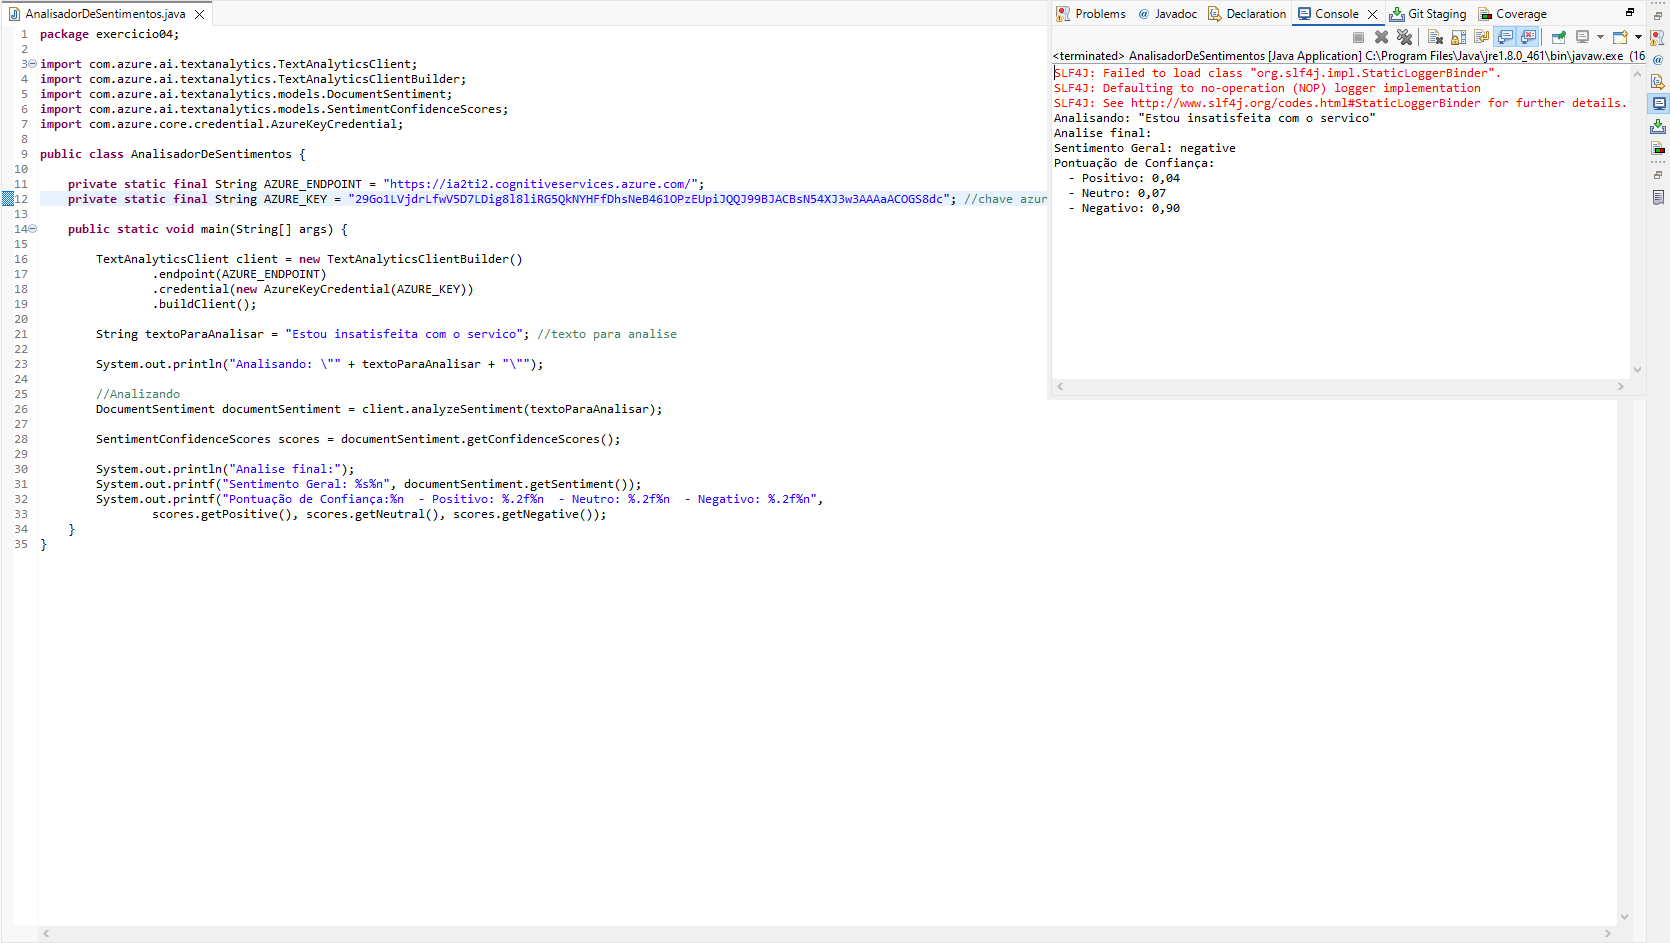
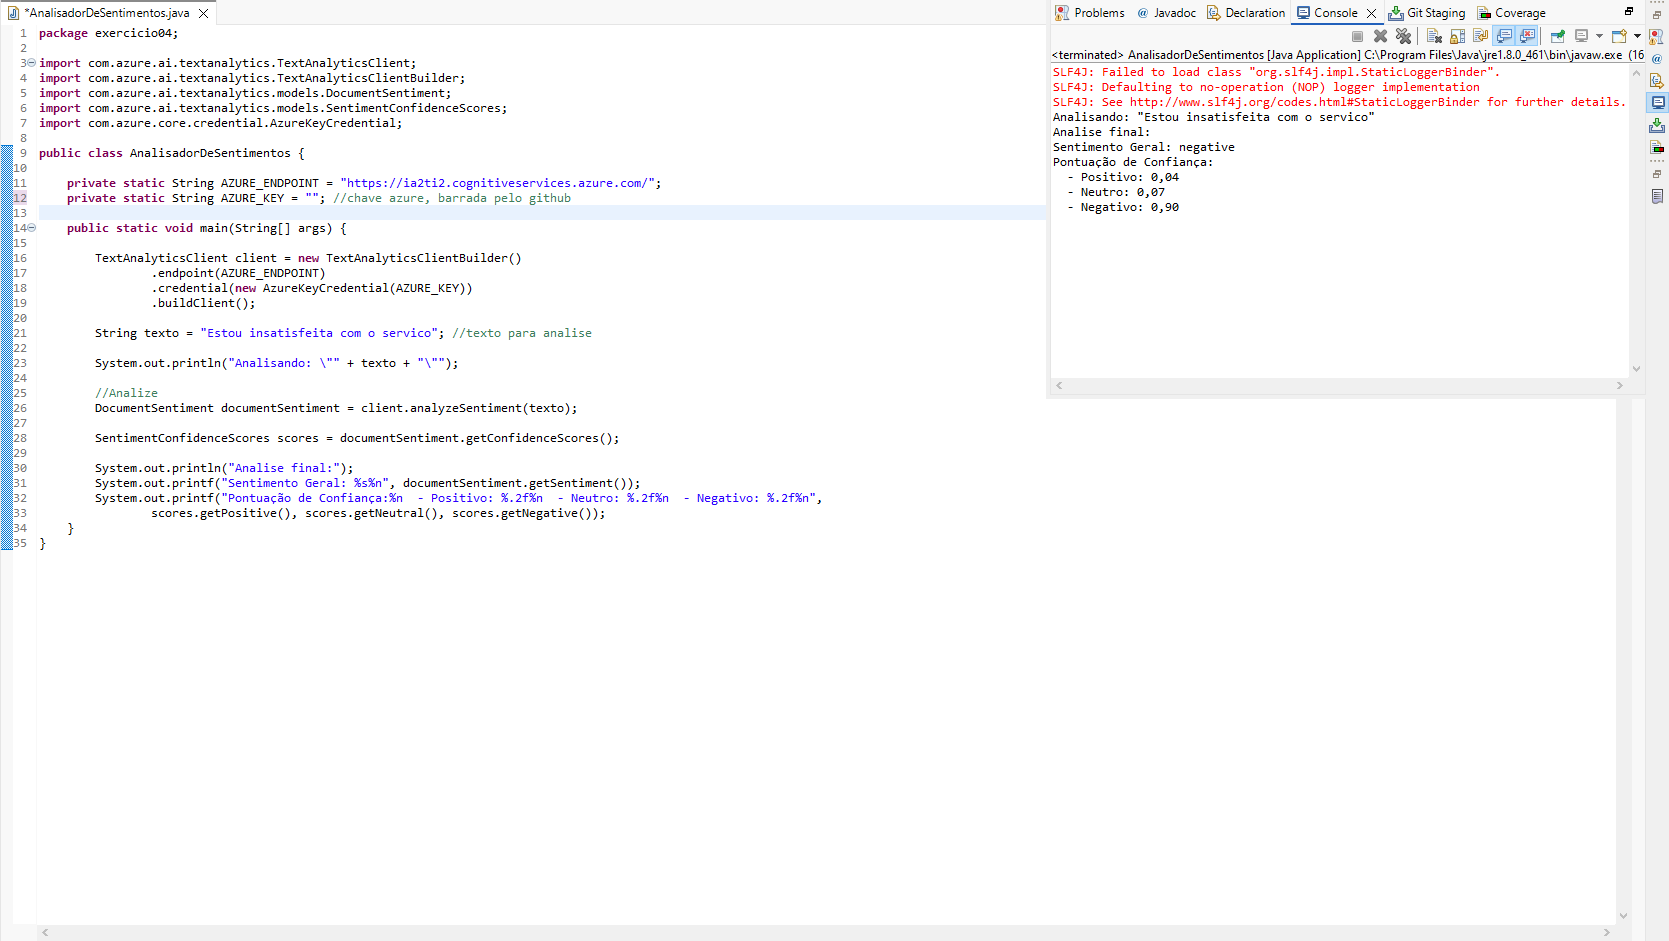
Correções

Changed region(s): [[0.0, 0.0, 1.0, 0.5855]]

diff --git a/exercicio04/src/main/java/exercicio04/AnalisadorDeSentimentos.java b/exercicio04/src/main/java/exercicio04/AnalisadorDeSentimentos.java
@@ -8,8 +8,8 @@ import com.azure.core.credential.AzureKeyCredential;
 
 public class AnalisadorDeSentimentos {
 
-    private static final String AZURE_ENDPOINT = "https://ia2ti2.cognitiveservices.azure.com/";
-    private static final String AZURE_KEY = ""; //chave azure, barrada pelo github
+    private static String AZURE_ENDPOINT = "https://ia2ti2.cognitiveservices.azure.com/";
+    private static String AZURE_KEY = ""; //chave azure, barrada pelo github
 
     public static void main(String[] args) {
     
@@ -18,12 +18,12 @@ public class AnalisadorDeSentimentos {
                 .credential(new AzureKeyCredential(AZURE_KEY))
                 .buildClient();
 
-        String textoParaAnalisar = "Estou insatisfeita com o servico"; //texto para analise
+        String texto = "Estou insatisfeita com o servico"; //texto para analise
 
-        System.out.println("Analisando: \"" + textoParaAnalisar + "\"");
+        System.out.println("Analisando: \"" + texto + "\"");
 
-        //Analizando
-        DocumentSentiment documentSentiment = client.analyzeSentiment(textoParaAnalisar);
+        //Analize
+        DocumentSentiment documentSentiment = client.analyzeSentiment(texto);
 
         SentimentConfidenceScores scores = documentSentiment.getConfidenceScores();
 
